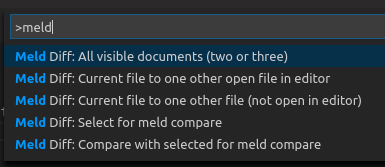
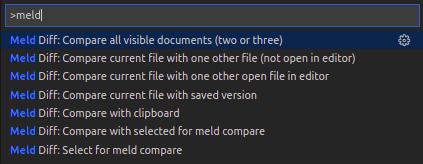
Update documentation

diff --git a/README.md b/README.md
@@ -1,6 +1,6 @@
-# Compare files or folders with the tool meld directly from vscode
+# Compare files or folders with the tool meld (or other like WinMerge, Beyond Compare, ...) directly from vs code
 
-This extension open two files (or folders) in the external tool meld.
+This extension open two files (or folders) in the external tool meld (or ony other diff tool you want).
 
 There are five commands to do different ways to choose the files for comparing. It is also possible to choose the files (or folders) from the file list.
 
@@ -14,39 +14,68 @@ Hit `Ctrl` + `Shift` + `P` to open the command menu and type `Meld Diff`.
 Meld tool must be available on your system. In a command line the command `meld <file1> <file2>` should work.
 On Windows you maybe have to add the executable folder of meld to your PATH.
 
+It is also possible to change the compare tool (see [Customize settings](#customize-settings)).
+
 # Detailed command information
-## All visible documents
-To use this command two files have to be visible side by side.
+This chapter describes every command in detail.
+
+## Compare all visible documents (two or three)
+Up to three visible files can be compared with this command. To use it two or three files have to be visible side by side.
 
 ![Compare side by side files](images/files_side_by_side.png)
 
-## Current file to one other open file in editor
-The current selected file will be the first to compare (left side in meld).
-The second file to compare (right side in meld) is selected by menu which shows all open files.
+If there are more than three files visible the three files with the newest modification timestamp are used.
+
+## Compare current file with one other open file in editor
+The current selected file will be the first file for the comparison (left side in meld).
+
+The second file for the comparison (right side in meld) is selected by menu which shows all open files.
 
 ![Compare file to other open file](images/compare_to_open_file.png)
 
-## Current file to one other file (not open in editor)
-The current selected file will be the first to compare (left side in meld).
-The second file to compare (right side in meld) is selected by open file dialog.
+## Compare current file with one other file (not open in editor)
+The current selected file will be the first file for the comparison (left side in meld).
+
+The second file file for the comparison (right side in meld) is selected by open file dialog.
 
 ## Select for meld compare
-Set the current selected file as the first to compare (left side in meld).
+Set the current selected file as the first file for the comparison (left side in meld).
 
-This is also possible in the file list.
+This command is also available in the [file list](#usage-with-file-list-also-folder-comparison-possible) and the [editor title context menu](#usage-with-editor-title-context-menu).
 
 ![Compare file to compare to from file list](images/select_for_compare.png)
 
 ## Compare with selected for meld compare
-Compare current file (right side in meld) to the file selected before.
+Compare the current file (right side in meld) with the file selected before by '*Select for meld compare*'.
 
-This is also possible in the file list.
+This command is also available in the [file list](#usage-with-file-list-also-folder-comparison-possible) and the [editor title context menu](#usage-with-editor-title-context-menu).
 
 ![Compare to selected from file list](images/compare_to_selected.png)
 
+## Compare with clipboard
+Compare the current file or the current selected text with the content of the clipboard.
+
+1. Select text in an editor
+2. Start '*Compare with clipboard*' from global menu or right click menu
+
+If no text is selected the whole content of the editor is taken as selection.
+
+If the selection is equal to the clipboard just a message will appear and no meld is started.
+
+If the selection is not equal meld will be started comparing the saved file with the clipboard (not the maybe unsaved content).
+
+This command is also available in the [editor context menu](#usage-with-editor-context-menu).
+
+## Compare with saved version of the file
+Compare the changed version in the current editor with it's saved version.
+
+Change the contend in an editor and call the function. The changed content will be compared with the saved content in meld.
+
+This command is also available in the [editor title context menu](#usage-with-editor-title-context-menu).
+
 # Usage with file list (also folder comparison possible)
 ## Select for meld compare
-Select the the first file or folder to compare (left side in meld) by right click on file list and hit '*Select for meld compare*'.
+Select the first file or folder to compare (left side in meld) by right click on file list and hit '*Select for meld compare*'.
 
 ![Compare file to compare to from file list](images/select_for_compare.png)
 
@@ -54,3 +83,26 @@ Select the the first file or folder to compare (left side in meld) by right clic
 Select the file or folder to compare to the file or folder selected before (right side in meld) by right click on file list and hit '*Compare with selected for meld compare*'.
 
 ![Compare to selected from file list](images/compare_to_selected.png)
+
+# Usage with editor context menu
+The command '*Compare with clipboard*' is also available in the context menu of a text editor.
+
+![Editor context menu](images/editor_context_menu.png)
+
+# Usage with editor title context menu
+The commands '*Select for meld compare*', '*Compare with selected for meld compare*' and '*Compare current file with saved version*' are also available in the context menu of a text editor title.
+
+![Editor context menu](images/editor_title_context_menu.png)
+
+# Customize settings
+## Use other tools than meld
+In the settings for Meld Diff it is possible to customize the command to use. Also the given arguments can be configured.
+
+The default values are:
+
+![Compare to selected from file list](images/settings.png)
+
+## Don't delete temp files if visual studio code is closed before meld
+By default all temporary files created for comparison of unsaved files, selections and clipboard are removed on closing visual studio code. This is done even if meld instances are running.
+
+To prevent deleting of temp files that are used by meld instances on closing visual studio code uncheck the settings entry `Temporary files (created for clipboard or unsaved comparison) are deleted if visual studio code is closed before meld`.

diff --git a/CHANGELOG.md b/CHANGELOG.md
@@ -1,3 +1,9 @@
+## 1.1.0
+- add compare to clipboard
+- add compare to saved version of the file
+- add tool command to settings, so also other tools than meld could be used
+- compare all visible sorts the files by modification time and takes the three newest if there are more than three files visible
+
 ## 1.0.10
 - add hint to readme that meld must be in PATH
 
